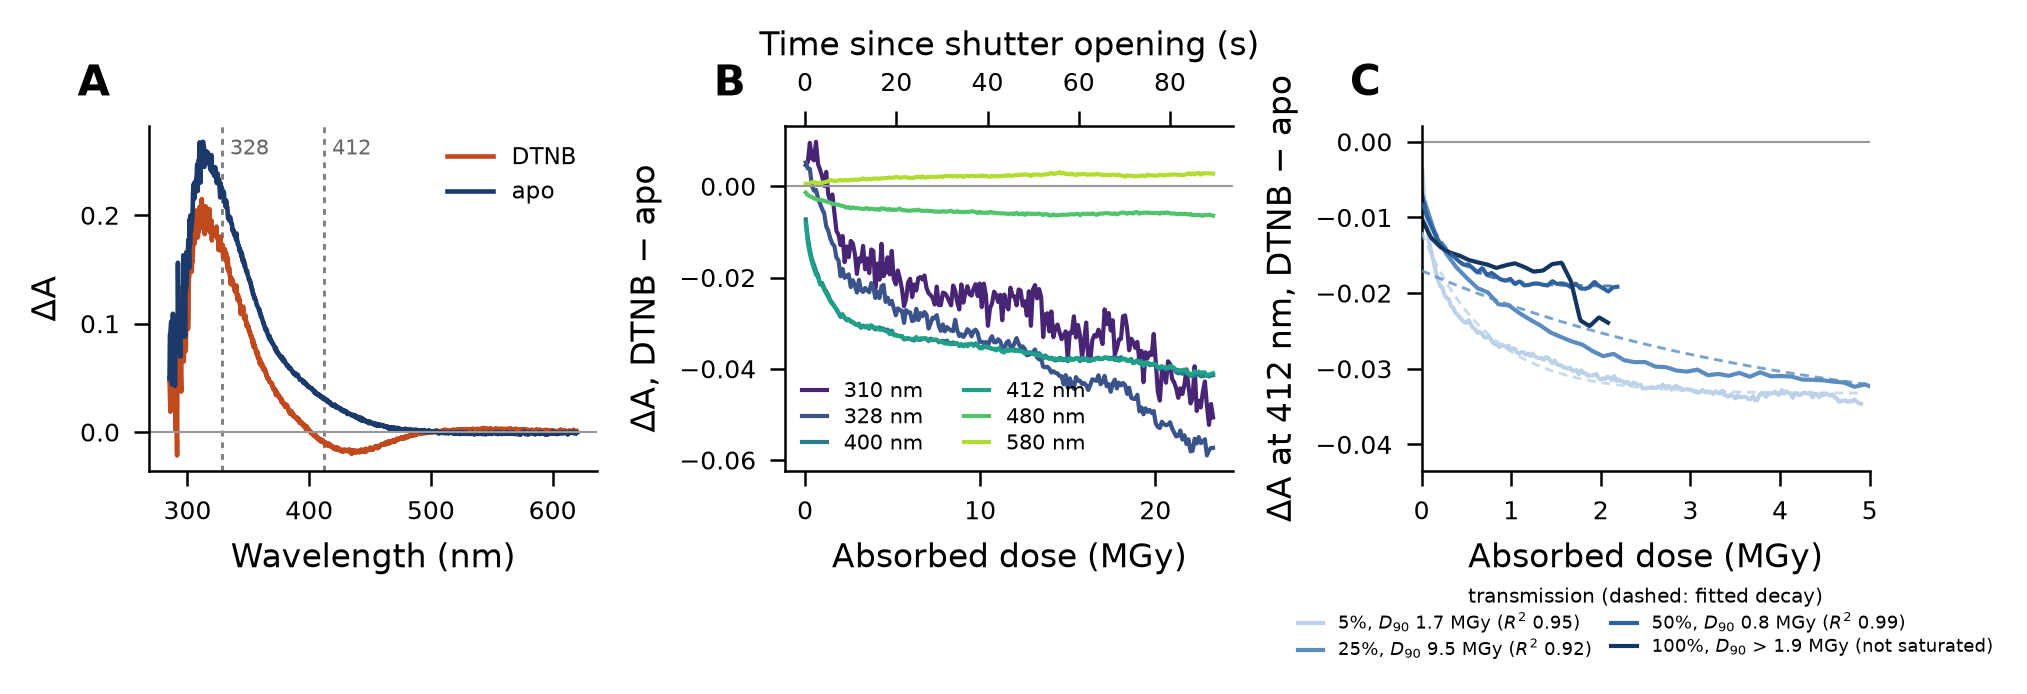
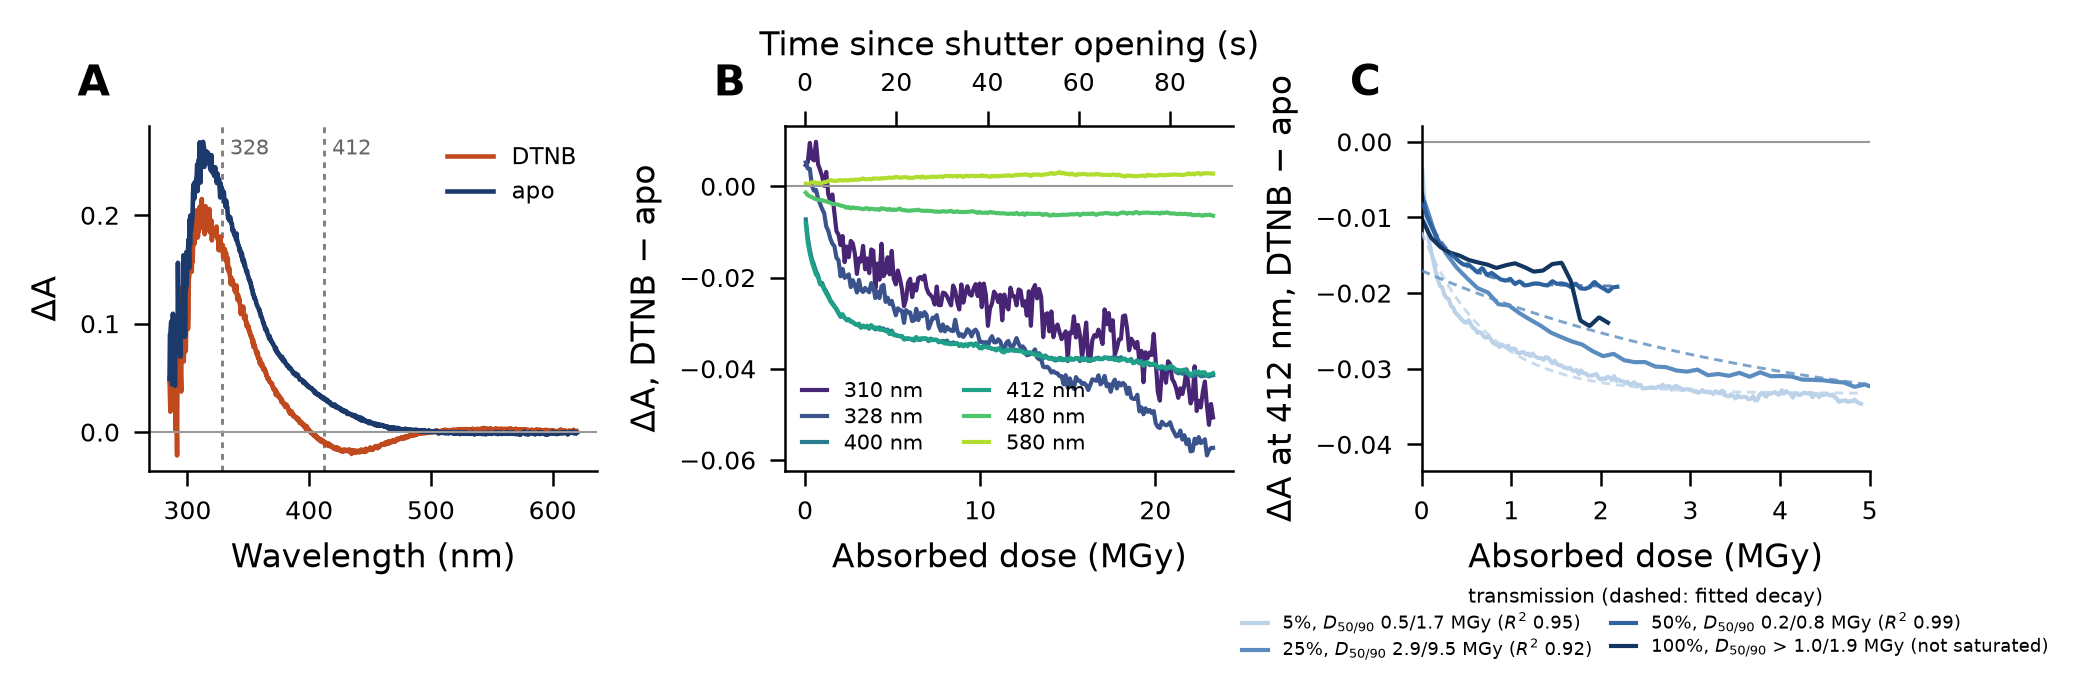
Add D50 alongside D90 to the exponential fit, table 9 and figure 2
D50 is computed from the SAME empirical, measured-range definition as
D90 (dose at which the fitted curve first reaches a given fraction of
its own measured excursion), not as D90/2 -- for this exponential
model D50 = D90 * ln(2)/ln(10) = D90 * 0.301, verified against the
computed values (ratio 0.303-0.305 on the three saturating conditions).
D50 shares D90's lower-bound behaviour: at 100% T, where the fit only
observes 14% of its own modelled decay, D50 is reported as a
measured-range lower bound (>1.0 MGy) rather than as a formula-derived
number that would extrapolate past the 2.08 MGy actually collected.

table_exponential_fits gains D50_MGy/D50_is_lower_bound columns
alongside the existing D90 columns. figure_diagnostic_wavelengths
panel C legend now reads '{T}%, D50/90 X/Y MGy (R2 ...)', compacted
to one number pair to keep the four-entry legend readable at panel
size.

diff --git a/src/crystalspec/quantify.py b/src/crystalspec/quantify.py
@@ -281,9 +281,11 @@ def fit_single_exponential(dose_MGy, delta_a, falling_segment_only=True):
     D = np.asarray(dose_MGy, dtype=float)
     y = np.asarray(delta_a, dtype=float)
     good = np.isfinite(D) & np.isfinite(y)
-    out = {"d1_MGy": np.nan, "D90_MGy": np.nan, "R2_single": np.nan,
+    out = {"d1_MGy": np.nan, "D90_MGy": np.nan, "D50_MGy": np.nan,
+           "R2_single": np.nan,
            "decay_observed_frac": np.nan,
            "dA_total": np.nan, "d1_at_bound": False, "D90_is_lower_bound": False,
+           "D50_is_lower_bound": False,
            "dA_extremum": np.nan, "dose_at_extremum_MGy": np.nan,
            "recovery_frac": np.nan, "n_frames_fitted": 0,
            "n_frames": int(good.sum())}
@@ -333,6 +335,18 @@ def fit_single_exponential(dose_MGy, delta_a, falling_segment_only=True):
     reached = np.nonzero(np.abs(pred - pred[0]) >= 0.9 * abs(total))[0]
     out["D90_MGy"] = float(D[reached[0]]) if reached.size else float(D[-1])
 
+    # D50 (half-dose), by the SAME empirical, measured-range definition as
+    # D90 above -- the dose at which the fitted curve first attains 50 % of
+    # its measured excursion, not D90 / 2.  For a single exponential the two
+    # are related by a FIXED ratio, D50 = D90 * ln(2)/ln(10) = D90 * 0.301,
+    # because the curve is exponential rather than linear in dose; halving
+    # D90 would overstate D50 by roughly 3x on this data.  D50 is computed
+    # from the same measured-range crossing (not the ratio) so it inherits
+    # exactly the same lower-bound behaviour as D90 when the fit has not
+    # observed enough of the curve.
+    reached50 = np.nonzero(np.abs(pred - pred[0]) >= 0.5 * abs(total))[0]
+    out["D50_MGy"] = float(D[reached50[0]]) if reached50.size else float(D[-1])
+
     # How much of the decay the model postulates was actually traversed by the
     # measurement.  This is the diagnostic that matters, and it is not visible
     # in R^2: a trace can be fitted with R^2 near 0.99 by the early, nearly
@@ -345,6 +359,12 @@ def fit_single_exponential(dose_MGy, delta_a, falling_segment_only=True):
     out["decay_observed_frac"] = float(1.0 - np.exp(-float(D[-1]) / d1))
     out["D90_is_lower_bound"] = bool(
         out["D90_MGy"] >= 0.9 * float(D[-1])
+        or out["decay_observed_frac"] < DECAY_OBSERVED_MIN)
+    # D50 needs less of the curve to be identified than D90 does (it is
+    # reached earlier), but it still inherits the same overall
+    # non-identifiability when the fit itself is unconstrained.
+    out["D50_is_lower_bound"] = bool(
+        out["D50_MGy"] >= 0.9 * float(D[-1])
         or out["decay_observed_frac"] < DECAY_OBSERVED_MIN)
     return out
 
@@ -387,7 +407,7 @@ def table_diagnostic_wavelengths(results, pairs, half_width=4.0):
 
 
 def table_exponential_fits(results, pairs=None, half_width=4.0):
-    """Single-exponential fit and D90 at each diagnostic wavelength."""
+    """Single-exponential fit and D90/D50 at each diagnostic wavelength."""
     import pandas as pd
 
     import numpy as np
@@ -414,6 +434,8 @@ def table_exponential_fits(results, pairs=None, half_width=4.0):
                 "d1_at_bound": f["d1_at_bound"],
                 "D90_MGy": round(f["D90_MGy"], 3),
                 "D90_is_lower_bound": f["D90_is_lower_bound"],
+                "D50_MGy": round(f["D50_MGy"], 3),
+                "D50_is_lower_bound": f["D50_is_lower_bound"],
                 "R2_single": round(f["R2_single"], 4),
                 "decay_observed_frac": round(f["decay_observed_frac"], 3),
             })
@@ -447,6 +469,8 @@ def table_exponential_fits(results, pairs=None, half_width=4.0):
                 "d1_at_bound": f["d1_at_bound"],
                 "D90_MGy": round(f["D90_MGy"], 3),
                 "D90_is_lower_bound": f["D90_is_lower_bound"],
+                "D50_MGy": round(f["D50_MGy"], 3),
+                "D50_is_lower_bound": f["D50_is_lower_bound"],
                 "R2_single": round(f["R2_single"], 4),
                 "decay_observed_frac": round(f["decay_observed_frac"], 3),
             })

diff --git a/src/crystalspec/figures.py b/src/crystalspec/figures.py
@@ -1407,10 +1407,11 @@ def figure_diagnostic_wavelengths(results, out_path, half_width=4.0,
                   and not fit["D90_is_lower_bound"])
         lab = f"{T}%"
         if ok_fit:
-            lab = (f"{T}%, $D_{{90}}$ {fit['D90_MGy']:.1f} MGy"
-                   f" ($R^2$ {fit['R2_single']:.2f})")
+            lab = (f"{T}%, $D_{{50/90}}$ {fit['D50_MGy']:.1f}/"
+                   f"{fit['D90_MGy']:.1f} MGy ($R^2$ {fit['R2_single']:.2f})")
         elif np.isfinite(fit["D90_MGy"]):
-            lab = f"{T}%, $D_{{90}}$ > {fit['D90_MGy']:.1f} MGy (not saturated)"
+            lab = (f"{T}%, $D_{{50/90}}$ > {fit['D50_MGy']:.1f}/"
+                   f"{fit['D90_MGy']:.1f} MGy (not saturated)")
         ax_c.plot(g[step // 2::step], diff[step // 2::step],
                   color=TRANSMISSION[T], lw=1.0, label=lab)
         if ok_fit:
